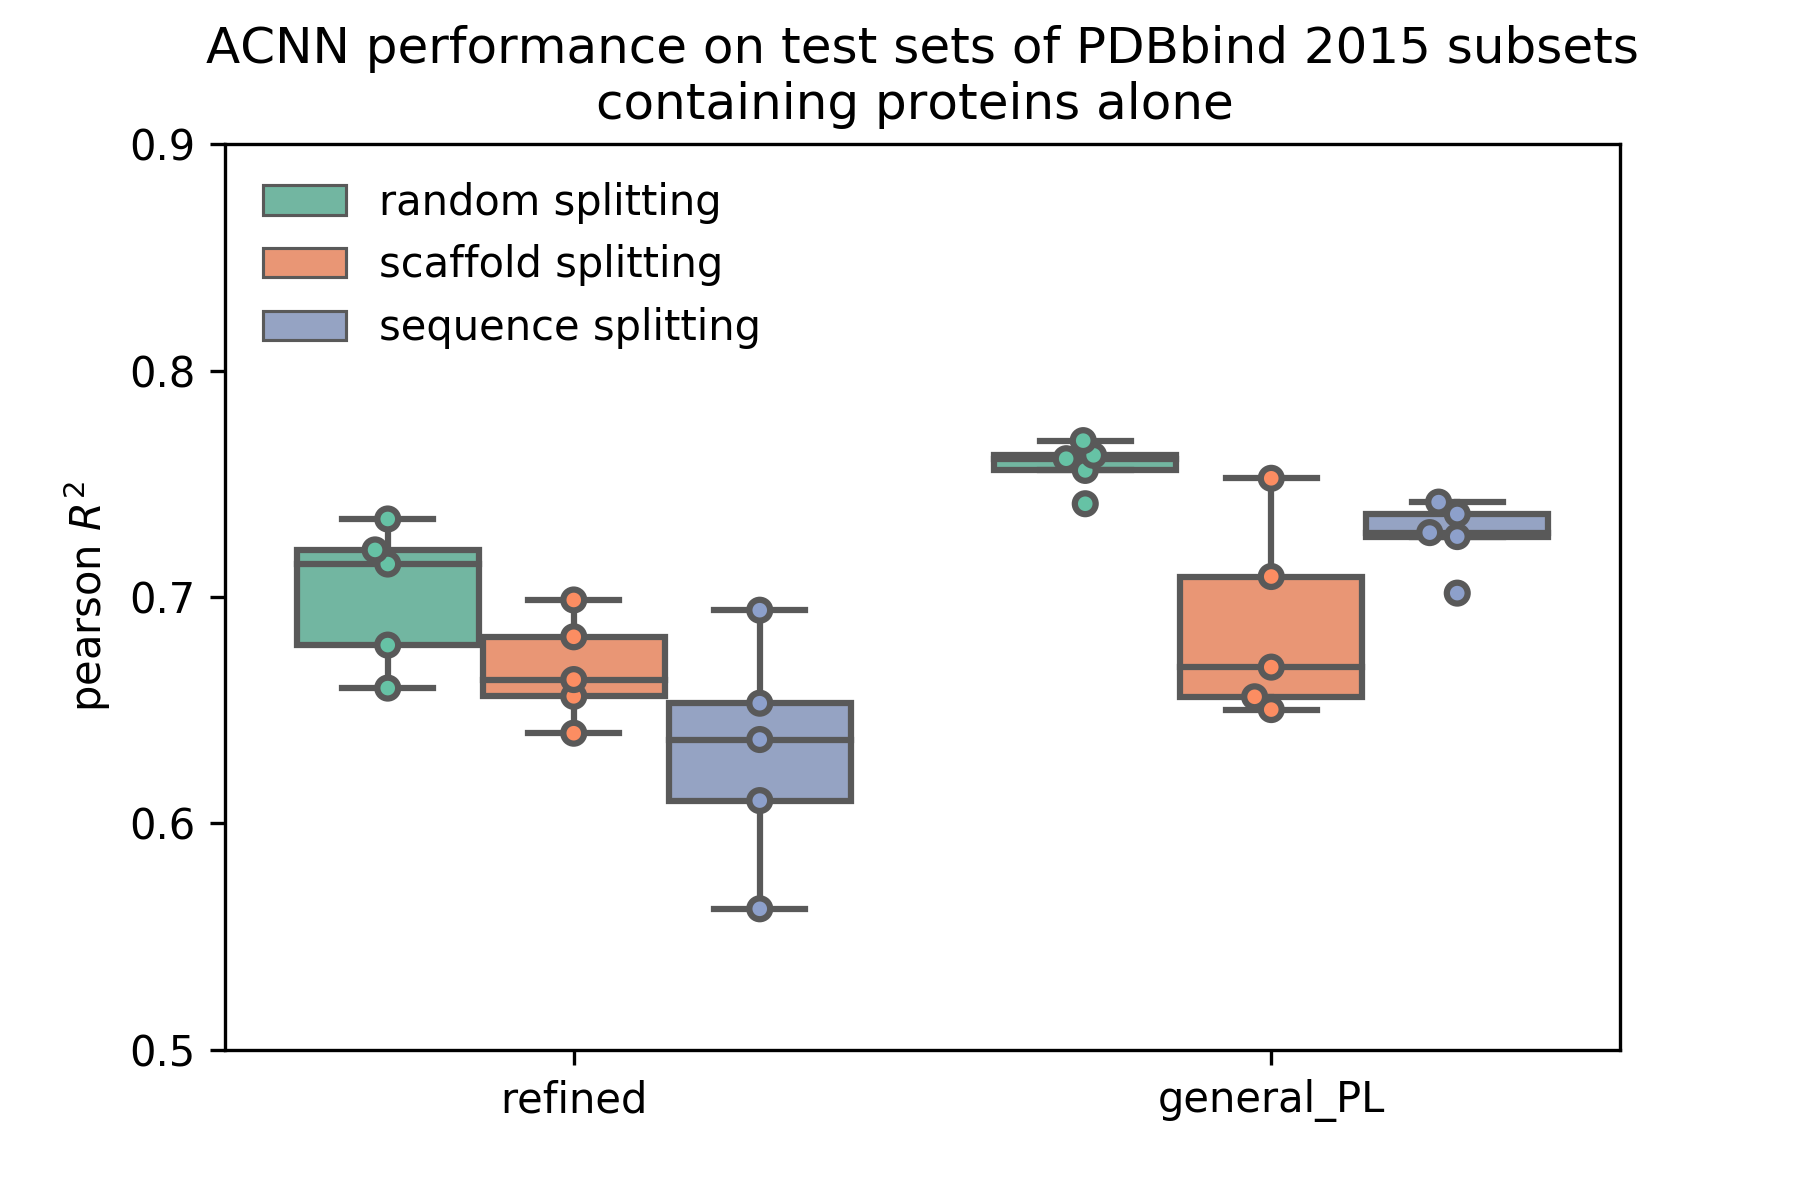
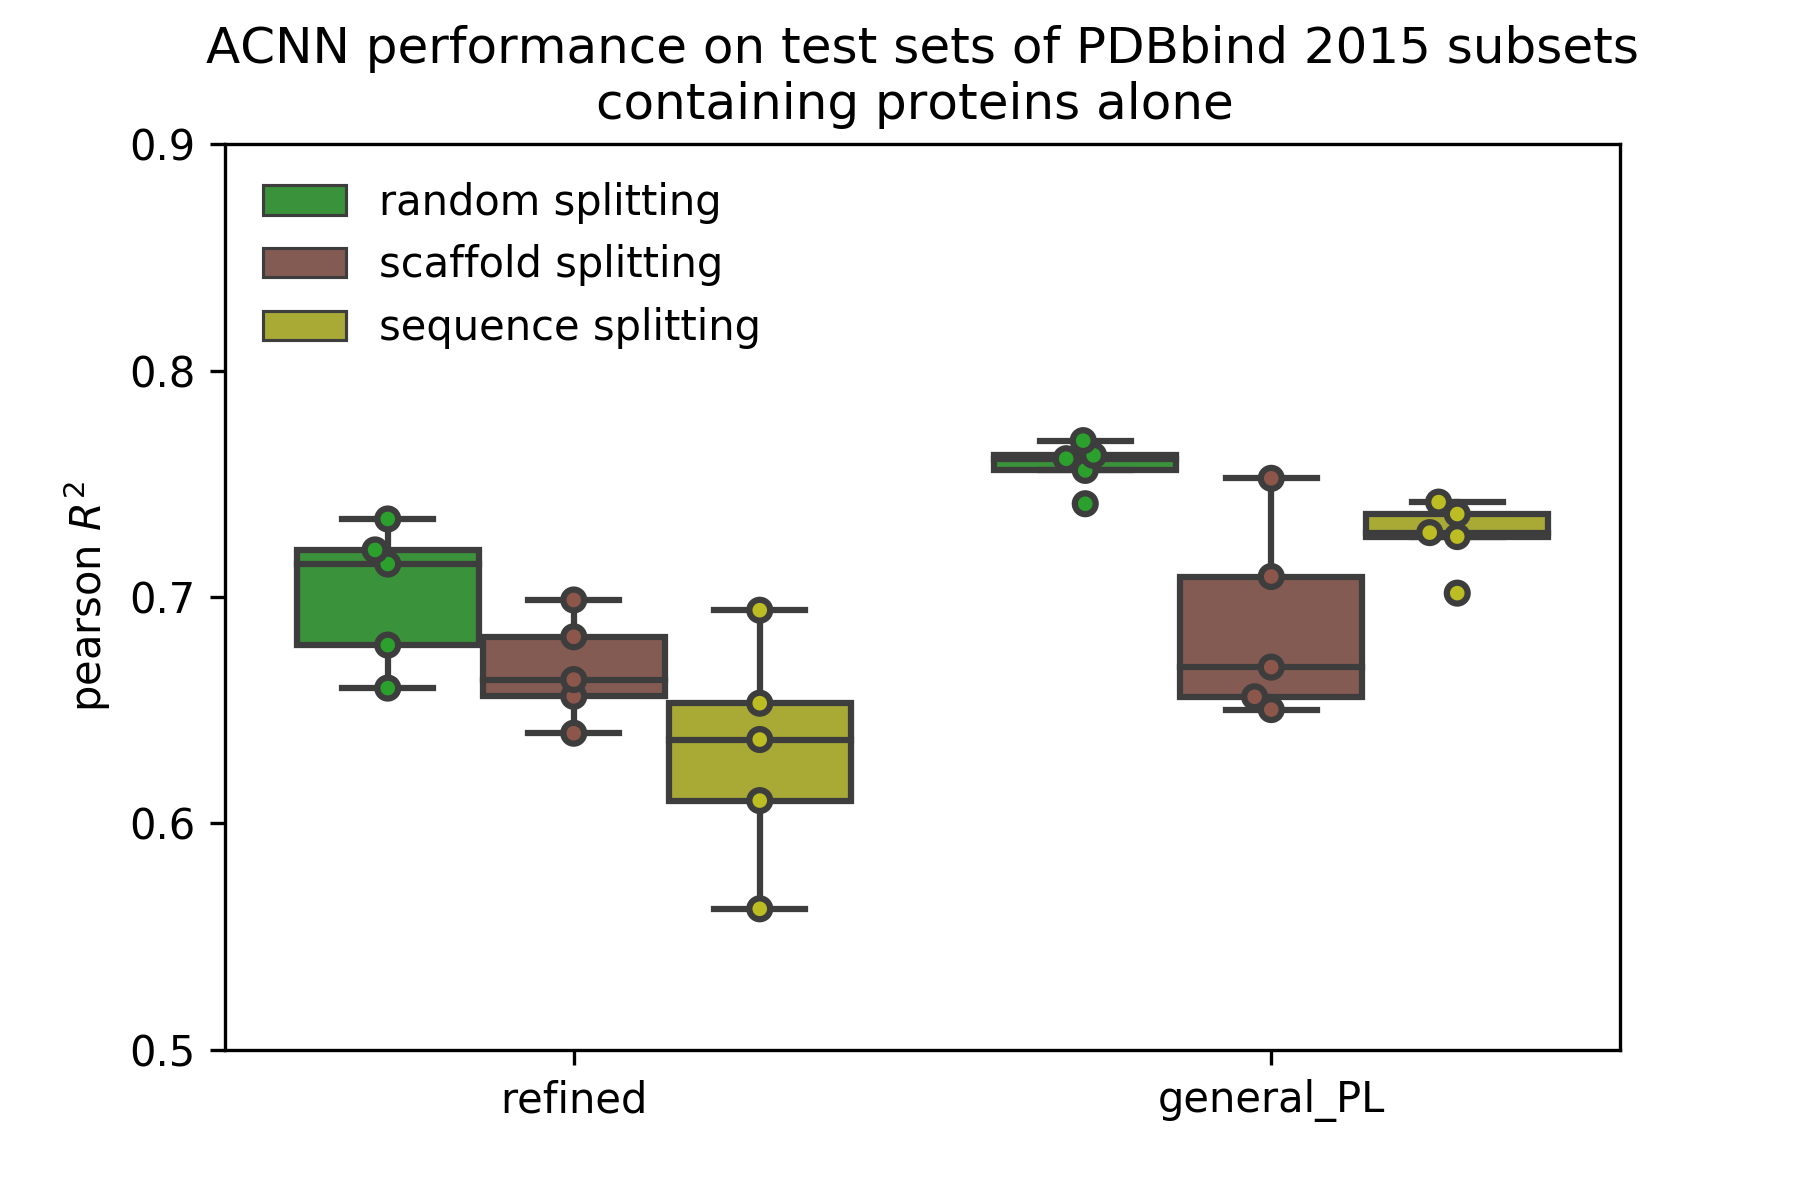
update colors

diff --git a/pdbbind/pred_core.figures/box.py b/pdbbind/pred_core.figures/box.py
@@ -13,7 +13,7 @@ root = Path('pdbbind/pred_core.figures')
 result = root / 'result'
 
 # csv = result / 'pred_core2015.csv' # seq simi 0.5, fp simi 0.5
-csv = result / 'core15.scaffold.csv' # seq simi 0.4, scaffold simi 0.8
+csv = result / 'core15.scaffold.csv'  # seq simi 0.4, scaffold simi 0.8
 
 df = pd.read_csv(csv)
 df.tail()
@@ -38,13 +38,16 @@ metric_names = ['pearson $R^2$']
 version = 2015
 # version = 2018
 #%%
+colors_2d = sns.color_palette()[:9]
+colors_2d = np.reshape(colors_2d, (3, 3, 3))
 for metric, metric_name in zip(metrics, metric_names):
-    for split, split_name in zip(splits, split_names):
+    for split, split_name, cs in zip(splits, split_names, colors_2d):
         d = df.loc[df['set'] == 'test']
         d = d.loc[d['split'] == split]
         d = d.loc[d['metric'] == metric]
         d = d.loc[d['version'] == version]
         # print(d)
+        cs_dict = {k: v for k, v in zip(components, cs)}
         # showfliers=False hide outliers
         fig, ax = plt.subplots()
         sns.boxplot(
@@ -55,7 +58,8 @@ for metric, metric_name in zip(metrics, metric_names):
             order=subsets,
             data=d,
             showfliers=False,
-            palette="Set2",
+            # palette="Set2",
+            palette=cs_dict,
             ax=ax,
         )
         # dodge split points
@@ -69,7 +73,8 @@ for metric, metric_name in zip(metrics, metric_names):
             dodge=True,
             linewidth=1.5,
             edgecolor='gray',
-            palette="Set2",
+            # palette="Set2",
+            palette=cs_dict,
             # palette=['black', 'black'],
             ax=ax,
         )
@@ -89,17 +94,19 @@ for metric, metric_name in zip(metrics, metric_names):
             f'ACNN performance on test sets of PDBbind {version} subsets\nwith {split_name}'
         )
         ax.set_yticks(np.linspace(0, 1, 11))
-        ax.set_ylim([0.5,0.9])
+        ax.set_ylim([0.5, 0.9])
         fig.savefig(root / f"{version}.{split}.{metric}.png", dpi=300)
 
 #%%
+colors_2dT = np.transpose(colors_2d, (1, 0, 2))
 for metric, metric_name in zip(metrics, metric_names):
-    for component, component_name in zip(components, cpn_names):
+    for component, component_name, cs in zip(components, cpn_names, colors_2dT):
         d = df.loc[df['set'] == 'test']
         d = d.loc[d['component'] == component]
         d = d.loc[d['metric'] == metric]
         d = d.loc[d['version'] == version]
         # print(d)
+        cs_dict = {k: v for k, v in zip(splits, cs)}
         # showfliers=False hide outliers
         fig, ax = plt.subplots()
         sns.boxplot(
@@ -110,7 +117,8 @@ for metric, metric_name in zip(metrics, metric_names):
             order=subsets,
             data=d,
             showfliers=False,
-            palette="Set2",
+            # palette="Set2",
+            palette=cs_dict,
             ax=ax,
         )
         # dodge split points
@@ -124,7 +132,8 @@ for metric, metric_name in zip(metrics, metric_names):
             dodge=True,
             linewidth=1.5,
             edgecolor='gray',
-            palette="Set2",
+            # palette="Set2",
+            palette=cs_dict,
             # palette=['black', 'black'],
             ax=ax,
         )
@@ -144,13 +153,16 @@ for metric, metric_name in zip(metrics, metric_names):
             f'ACNN performance on test sets of PDBbind {version} subsets\ncontaining {component_name} '
         )
         ax.set_yticks(np.linspace(0, 1, 11))
-        ax.set_ylim([0.5,0.9])
+        ax.set_ylim([0.5, 0.9])
         fig.savefig(root / f"{version}.{component}.{metric}.png", dpi=300)
 
 #%%
 d = df.loc[df['set'] == 'test']
 d = d.loc[d['metric'] == 'pearson_r2_score']
-pt = pd.pivot_table(d, index=['version', 'split', 'component'], columns=['subset'], values=['value'])
-pt.to_csv(root/'pivot_table.csv')
+pt = pd.pivot_table(d,
+                    index=['version', 'split', 'component'],
+                    columns=['subset'],
+                    values=['value'])
+pt.to_csv(root / 'pivot_table.csv')
 pt
 #%%
